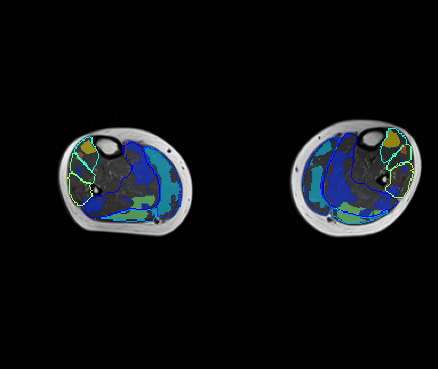
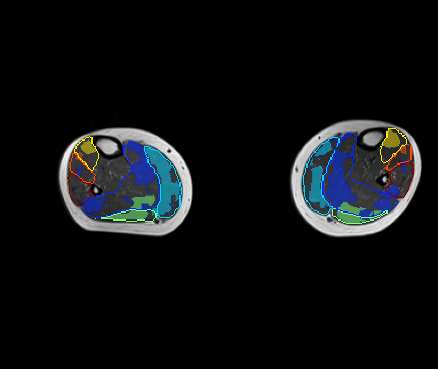
Consistent ground truth plot

diff --git a/image_data/plot_groundtruth.py b/image_data/plot_groundtruth.py
@@ -52,6 +52,8 @@ for mask_name in mask_dictionary:
 accumulated_contours = np.zeros(sz[:2], dtype=np.int32)
 for val, label in LEG_LABELS.items():
     contour = contour_dictionary[label]
+    # remove overlap
+    contour = np.logical_and(contour, accumulated_contours == 0)
     accumulated_contours += (contour*val)
 
 alpha = np.zeros_like(accumulated_contours, dtype=np.float32)
